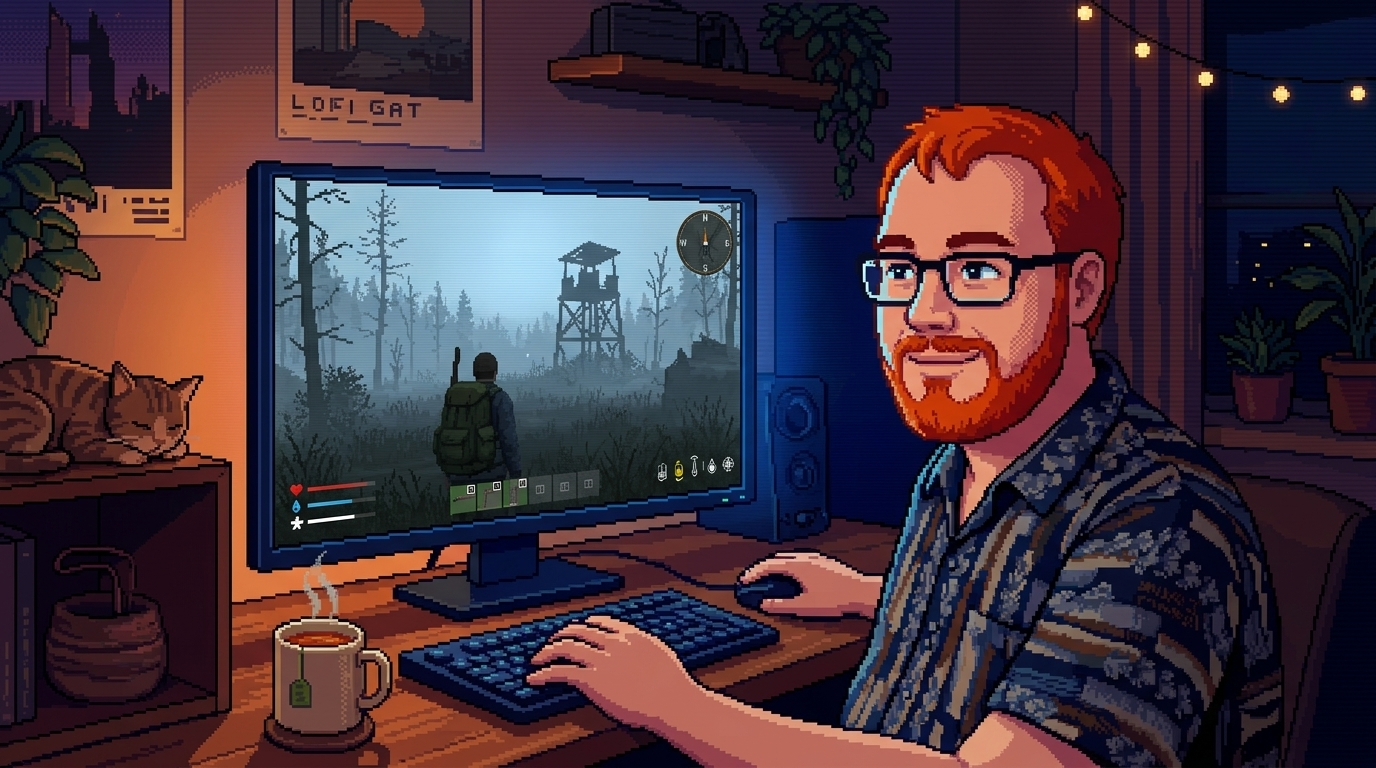
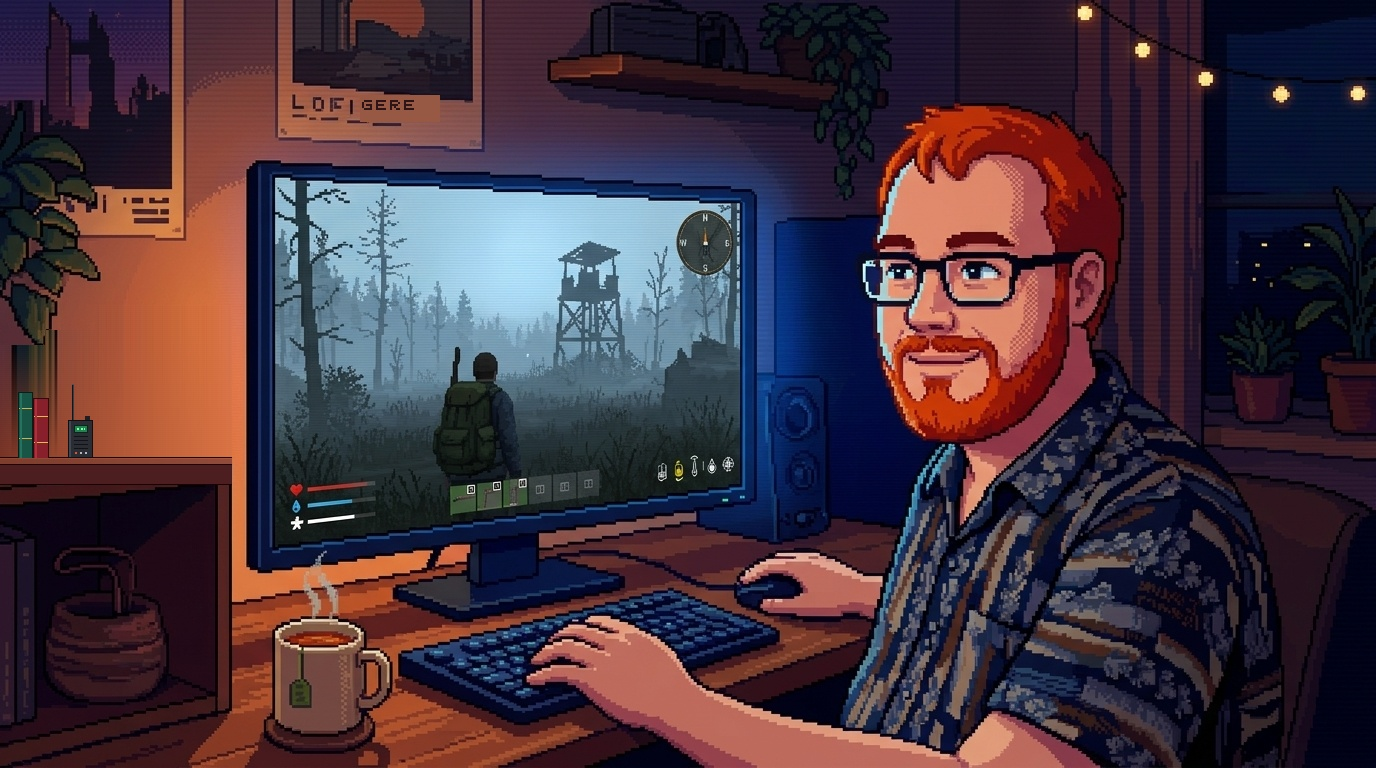
fix: remove cats from scenes (DayZ shelf restored with radio & books, kitchen radiator restored)

Changed region(s): [[0.0, 0.4375, 0.1875, 0.6562], [0.25, 0.125, 0.3125, 0.1562]]

diff --git a/js/particles.js b/js/particles.js
@@ -46,8 +46,6 @@ class SceneAnimationEngine {
       // Scene 4: Panel Kitchen
       bubbles: [],
       kitchenSteam: [],
-      kitchenZzz: [],
-      lastKitchenZzzTime: 0,
 
       // Scene 5: Sleeping
       sleepZzz: [],
@@ -494,29 +492,7 @@ class SceneAnimationEngine {
       if (st.alpha <= 0) s.kitchenSteam.splice(i, 1);
     }
 
-    // 4D. Sleeping Cat at Radiator (x: 0.92w, y: 0.79h)
-    const catX = w * 0.92;
-    const catY = h * 0.79;
-    if (now - s.lastKitchenZzzTime > 2200) {
-      s.lastKitchenZzzTime = now;
-      s.kitchenZzz.push({
-        x: catX - 4,
-        y: catY - 8,
-        text: Math.random() > 0.5 ? "Z" : "z",
-        alpha: 0.85
-      });
-    }
 
-    ctx.font = "bold 11px monospace";
-    for (let i = s.kitchenZzz.length - 1; i >= 0; i--) {
-      const z = s.kitchenZzz[i];
-      z.y -= 0.45;
-      z.x -= 0.25;
-      z.alpha -= 0.005;
-      ctx.fillStyle = `rgba(255, 255, 255, ${Math.max(0, z.alpha)})`;
-      ctx.fillText(z.text, z.x, z.y);
-      if (z.alpha <= 0) s.kitchenZzz.splice(i, 1);
-    }
 
     // 4E. Eye Blink
     if (s.isBlinking) {
